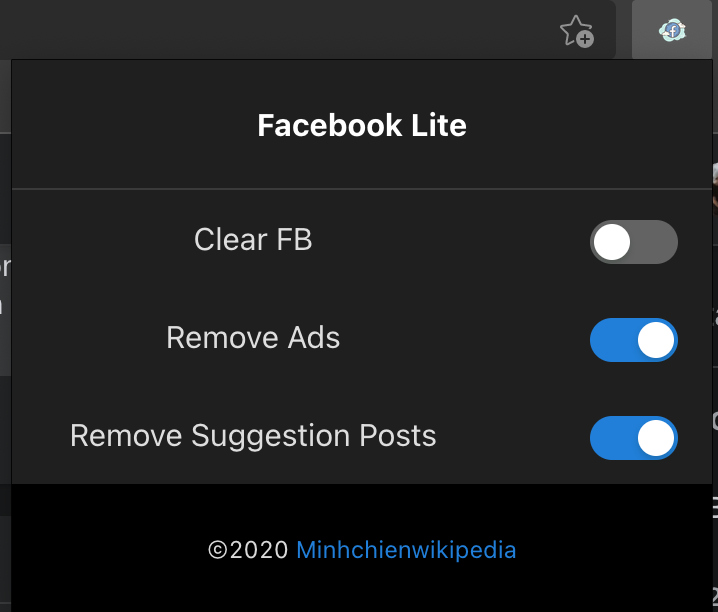
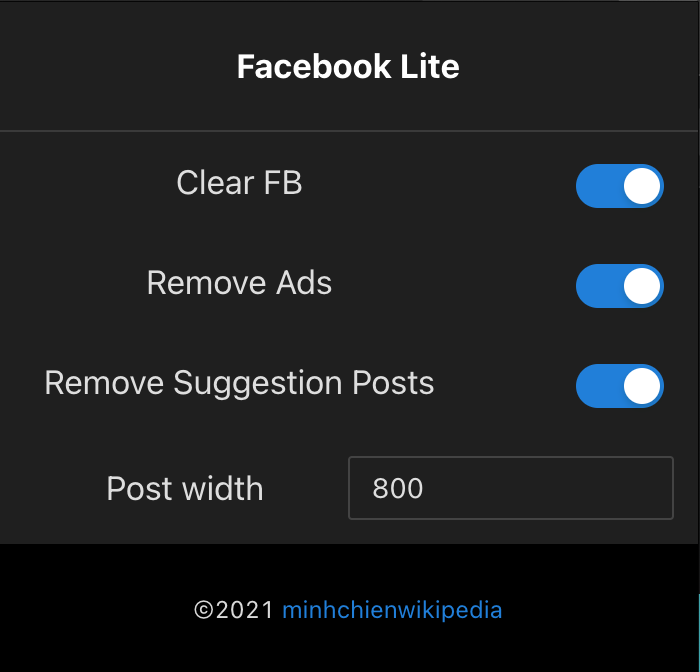
Update readme

diff --git a/README.md b/README.md
@@ -8,10 +8,11 @@ Make your Facebook Cleaner
 * Remove Ads posts
 * Remove Suggestion posts by Facebook
 * Clean Facebook (Remove element unused - make Facebook faster, no lagging anymore)
+* Change Posts width
 
 ### How to use?
 
-1. Download & Unzip [Facebook Lite](https://github.com/minhchienwikipedia/facebook-lite/releases/)
+1. Download & Unzip [facebook-lite.zip](https://github.com/minhchienwikipedia/facebook-lite/releases/)
 2. Open Chrome Extension: `chrome://extensions`
 3. Chose `Load Unpacked` chose unzip folder of Facebook Lite
 4. Open [Facebook](https://www.facebook.com/) to check how it work!
